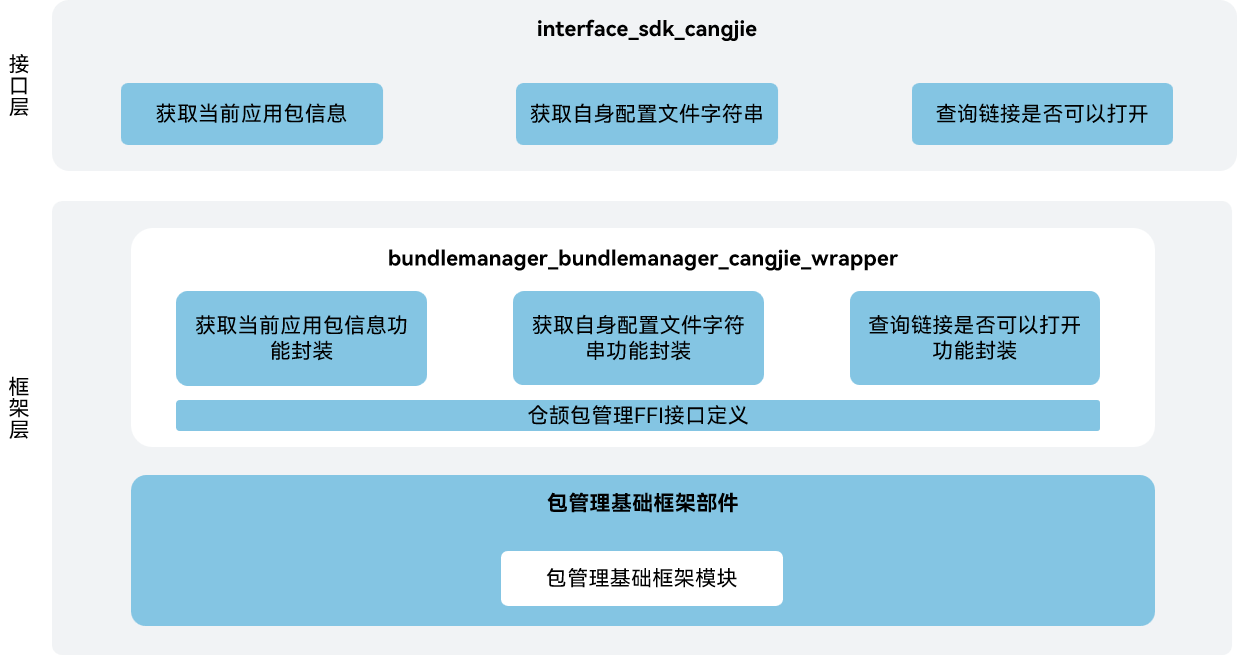
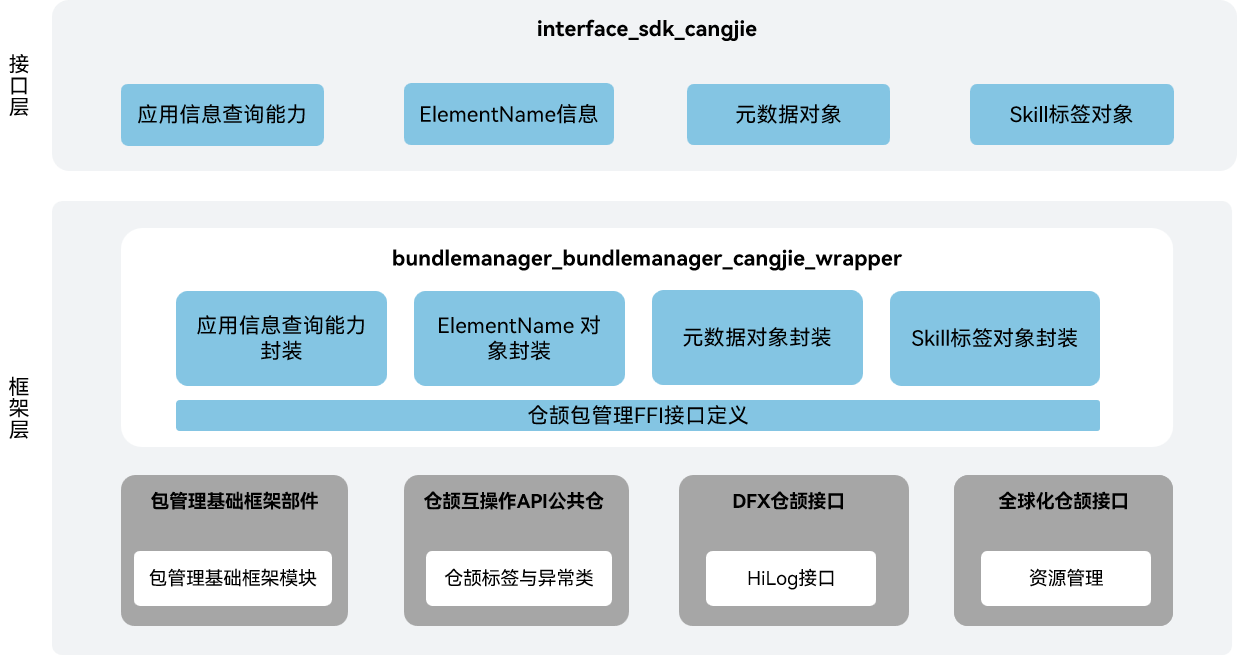
fix_readme

Changed region(s): [[0.0922, 0.7023, 0.9523, 0.9771], [0.1536, 0.3664, 0.8909, 0.6107], [0.0922, 0.1221, 0.9523, 0.2443]]

diff --git a/README_zh.md b/README_zh.md
@@ -12,23 +12,30 @@
 
 如架构图所示：
 
-- 获取当前应用包信息：提供当前应用包信息的查询能力。
-- 获取自身配置文件字符串：提供UIAbility组件信息、ExtensionAbility组件信息的查询能力，返回json格式字符串。
-- 查询链接是否可以打开：提供查询给定的链接是否可以打开的能力。
-- 仓颉包管理FFI接口定义：负责定义C互操作仓颉接口，用于实现仓颉包管理能力。
-- 包管理基础框架模块：负责提供包管理基础功能，封装C接口提供给仓颉进行互操作。
+- 应用信息查询能力：提供当前应用包信息的查询能力。提供UIAbility组件信息、ExtensionAbility组件信息的查询能力，返回json格式字符串。提供查询给定的链接是否可以打开的能力。
+- ElementName信息: ElementName信息的定义。包含设备ID，应用Bundle名称等信息。
+- 元数据对象: 元数据对象的定义。包含元数据名称、元数据值和元数据资源。
+- Skill标签对象：Skill标签对象。包含Skill接收的actions、entities、uris、domainVerify集合。
+- 仓颉包管理FFI接口定义：负责定义C语言互操作仓颉接口，用于实现仓颉包管理能力。
+- 包管理基础框架模块：负责提供包管理基础功能，封装C语言接口提供给仓颉进行互操作。
+- 仓颉互操作API公共仓：提供仓颉标签与异常类的定义。
+- DFX仓颉接口：提供日志系统，使应用/服务可以按照指定级别、标识和格式字符串输出日志内容。
+- 全球化仓颉接口：提供应用资源获取的能力。
 
 ## 目录
 
 ```
 foundation/bundlemanager/bundlemanager_cangjie_wrapper
-├── figures               # 存放README中的架构图
-├── ohos                  # 仓颉包管理接口实现
-│   ├── bundle            # 仓颉bundle接口实现
-│   ├── element_name      # 仓颉ElementName接口实现
-│   ├── metadata          # 仓颉Metadata接口实现
-│   └── skill             # 仓颉Skill接口实现
-└── test                  # 仓颉测试代码
+├── figures                 # 存放README中的架构图
+├── ohos                    # 仓颉包管理接口实现
+│   ├── bundle              # 仓颉bundle接口实现
+│   │   ├── BUILD.gn
+│   │   ├── bundle.cj
+│   │   └── bundle_manager  # 仓颉bundle基础功能实现
+│   ├── element_name        # 包管理依赖元素ElementName类的实现
+│   ├── metadata            # 包管理依赖元素Metadata类的实现
+│   └── skill               # 包管理依赖元素Skill类的实现
+└── test                    # 仓颉测试代码
 ```
 
 ## 使用说明
@@ -57,8 +64,10 @@ foundation/bundlemanager/bundlemanager_cangjie_wrapper
 
 ## 相关仓
 
-[bundlemanager_bundle_framework](https://gitee.com/openharmony/bundlemanager_bundle_framework)
+[bundlemanager_bundle_framework](https://gitcode.com/openharmony/bundlemanager_bundle_framework)
 
 [arkcompiler_cangjie_ark_interop](https://gitcode.com/openharmony-sig/arkcompiler_cangjie_ark_interop)
+
+[hiviewdfx_hiviewdfx_cangjie_wrapper](https://gitcode.com/openharmony-sig/hiviewdfx_hiviewdfx_cangjie_wrapper)
 
 [global_global_cangjie_wrapper](https://gitcode.com/openharmony-sig/global_global_cangjie_wrapper)

diff --git a/README.md b/README.md
@@ -12,23 +12,30 @@ The Cangjie API is a Cangjie API encapsulated on OpenHarmony based on the capabi
 
 As shown in the architecture:
 
-- getBundleInfoForSelf: Obtains the bundle information.
-- getProfileByAbility  getProfileByExtensionAbility: Obtains the JSON string array of the current application's configuration.
-- canOpenLink: Checks whether a link can be opened.
+- BundleManager: Obtains the bundle information. Obtains the JSON string array of the current application's configuration. Checks whether a link can be opened.
+- ElementName: Definition of ElementName. Includes device ID, application Bundle name, and other information.
+- Metadata: Definition of Metadata. Includes metadata name, metadata value, and metadata resources.
+- Skill: Skill object. Includes the collection of actions, entities, uris, and domainVerify that Skill receives.
 - Cangjie Bundlemanager FFI interface: Based on cross-language interoperability via C interfaces to implement bundlemanager Cangjie API.
 - bundle_framework: It is responsible for providing basic functions of bundlemanager, and encapsulates C interfaces to provide interoperability for Cangjie.
+- Cangjie Interop API Public Repository: Provides definitions for APILevel and BusinessException classes.
+- hiviewdfx_cangjie_wrapper: Provides a logging system that allows applications/services to output log content according to specified levels, identifiers, and format strings.
+- global_cangjie_wrapper: Provides the capability to access application resources.
 
 ## Directory Structure
 
 ```
 foundation/bundlemanager/bundlemanager_cangjie_wrapper
-├── figures           # architecture pictures
-├── ohos              # Cangjie Bundle Management code
-│   ├── bundle        # Cangjie bundle code
-│   ├── element_name  # Cangjie ElementName code
-│   ├── metadata      # Cangjie Metadata code
-│   └── skill         # Cangjie Skill code
-└── test              # Cangjie test code
+├── figures                   # architecture pictures
+├── ohos                      # Cangjie Bundle Management code
+│   ├── bundle                # Cangjie bundle code
+│   │   ├── BUILD.gn
+│   │   ├── bundle.cj
+│   │   └── bundle_manager    # Cangjie bundle basic function implementation
+│   ├── element_name          # Cangjie ElementName code
+│   ├── metadata              # Cangjie Metadata code
+│   └── skill                 # Cangjie Skill code
+└── test                      # Cangjie test code
 ```
 
 
@@ -58,8 +65,10 @@ Developers are welcome to contribute code, documentation, etc. For specific cont
 
 ## Repositories Involved
 
-[bundlemanager_bundle_framework](https://gitee.com/openharmony/bundlemanager_bundle_framework)
+[bundlemanager_bundle_framework](https://gitcode.com/openharmony/bundlemanager_bundle_framework)
 
 [arkcompiler_cangjie_ark_interop](https://gitcode.com/openharmony-sig/arkcompiler_cangjie_ark_interop)
+
+[hiviewdfx_hiviewdfx_cangjie_wrapper](https://gitcode.com/openharmony-sig/hiviewdfx_hiviewdfx_cangjie_wrapper)
 
 [global_global_cangjie_wrapper](https://gitcode.com/openharmony-sig/global_global_cangjie_wrapper)
